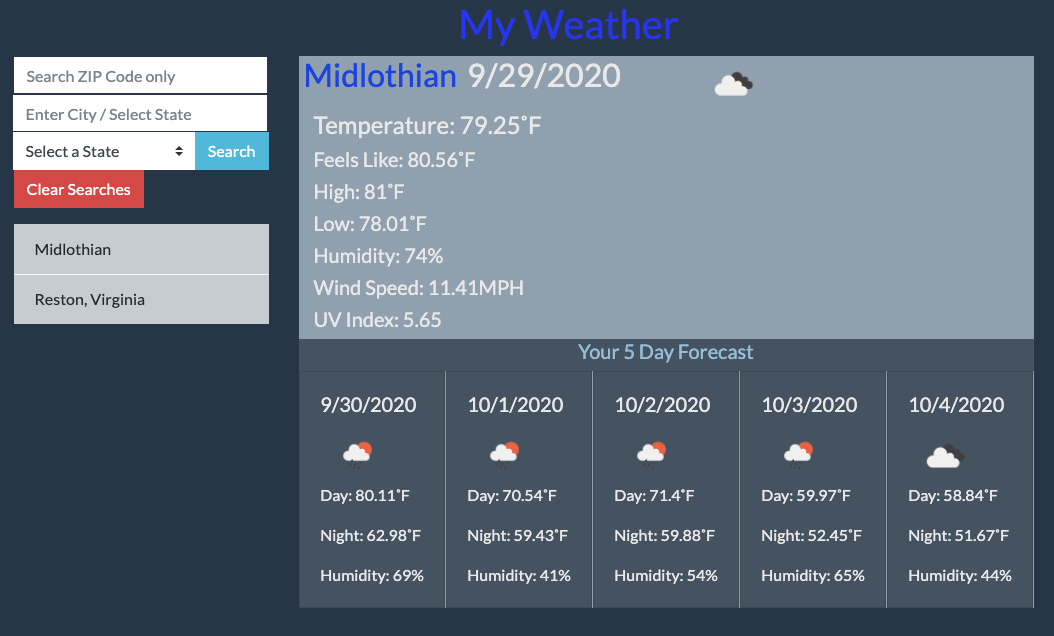
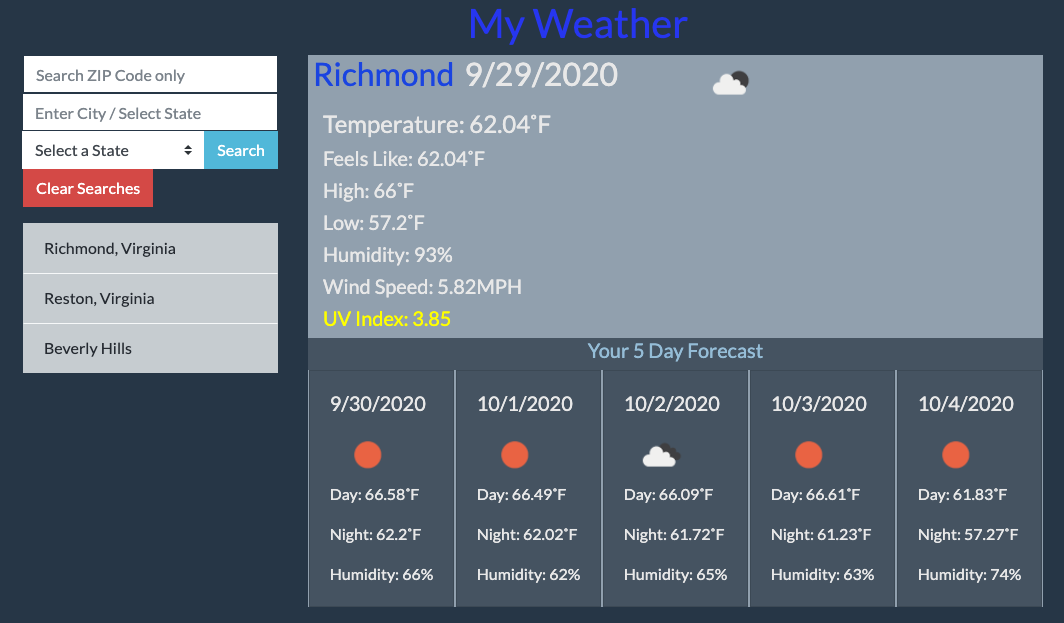
updated the uvi color function and updated the README.md

diff --git a/index.html b/index.html
@@ -16,8 +16,8 @@
     <div class="container">
         <div class="row">
           <div class="col-sm-3">
-            <!-- <form> -->
-                <form class="input-group mb-3">
+              <!-- <form> -->
+                  <form class="input-group mb-3">
                     <input id="zip" style="width: auto"type="number" class="form-control" placeholder="Search ZIP Code only" aria-label="Zip Input">
                     <input id="city" style="width: auto"type="text" class="form-control" placeholder="Enter City / Select State" aria-label="City Input">
                     <select id="state-select" class="custom-select" style="width: auto">
@@ -150,16 +150,12 @@
                               <p id="fHum4"class="card-text"></p>
                             </div>
                           </div>
-                        
-                        
-                        
                     </div>      
                 </div>
             </div>
           </div>
         </div>
       </div>
-      
     <script src="https://cdnjs.cloudflare.com/ajax/libs/jquery/3.5.1/jquery.min.js"></script>
     <script src="https://cdn.jsdelivr.net/npm/popper.js@1.16.1/dist/umd/popper.min.js" integrity="sha384-9/reFTGAW83EW2RDu2S0VKaIzap3H66lZH81PoYlFhbGU+6BZp6G7niu735Sk7lN" crossorigin="anonymous"></script>
     <script src="https://stackpath.bootstrapcdn.com/bootstrap/4.5.2/js/bootstrap.min.js" integrity="sha384-B4gt1jrGC7Jh4AgTPSdUtOBvfO8shuf57BaghqFfPlYxofvL8/KUEfYiJOMMV+rV" crossorigin="anonymous"></script>

diff --git a/script.js b/script.js
@@ -58,6 +58,7 @@ $(document).ready(function() {
                 $("#cIcon").attr({"src": cIconSource, "alt": currentIcon2Desc});
                 $("#cFeels").text("Feels Like: "+tempFeel2);
                 $("#cUV").text("UV Index: "+uvIndex2);
+                setUVcolor(uvIndex2);
                 $("#cWind").text("Wind Speed: "+windSpeed2);
                 $("#forecast-title").text("Your 5 Day Forecast");
 
@@ -233,13 +234,23 @@ $(document).ready(function() {
     });
 
 
-    //// Set UV Index background color
+    //// Set UV Index background color \\\\
     function setUVcolor (uvi) {
 
-        if (uvi >2){
-
+        var uvi = parseInt(uvi);
+        if (uvi <= 2){
+            $("#cUV").css({'color':'green'});
+            
+        }else if (uvi >=3 && uvi<=5){
+            $("#cUV").css({'color':'yellow'});
+            
+        }else if (uvi >=6 && uvi <= 7){
+            $("#cUV").css({'color':'orange'});
+            
+        }else if (uvi >= 8 && uvi <= 10){
+            $("#cUV").css({'color':'red'});
         }
-    }
+    };
 
     // Add a delay to allow the city list to be populated
     var delayInMilliseconds = 100;

diff --git a/README.md b/README.md
@@ -2,9 +2,9 @@
 
 # 06 Server-Side APIs: Weather Dashboard
 
-The My Weather application utilizes the OpenWeather api to get city weather and five day forecast information. It will search for city weather based on zip code or city and state search. All city searches are saved to local storage so that the search is persistent. The application is responsive an displays the same information on smaller screens.
+The My Weather application utilizes the OpenWeather api to get city weather and five day forecast information. It will search for city weather based on zip code or city and state search. All city searches are saved to local storage so that the search is persistent. The application is responsive on displays the same information on smaller screens. It displays weather icons and changes the color of the UV Index value based on intensity.	
 
-Use the [OpenWeather API](https://openweathermap.org/api) to retrieve weather data for cities. The documentation includes a section called "How to start" that will provide basic setup and usage instructions. Use `localStorage` to store any persistent data.
+I used the [OpenWeather API](https://openweathermap.org/api) to retrieve weather data for cities. The documentation includes a section called "How to start" that will provide basic setup and usage instructions. Use `localStorage` to store any persistent data.
 
 ## User Story
 
@@ -14,7 +14,10 @@ I WANT to see the weather outlook for multiple cities
 SO THAT I can plan a trip accordingly
 ```
 
-
+Desktop View
 ![my weather](/MyWeather.png)
 
+
+Responsive View
+![my weather responsive](/ResponsiveView.png)
 
